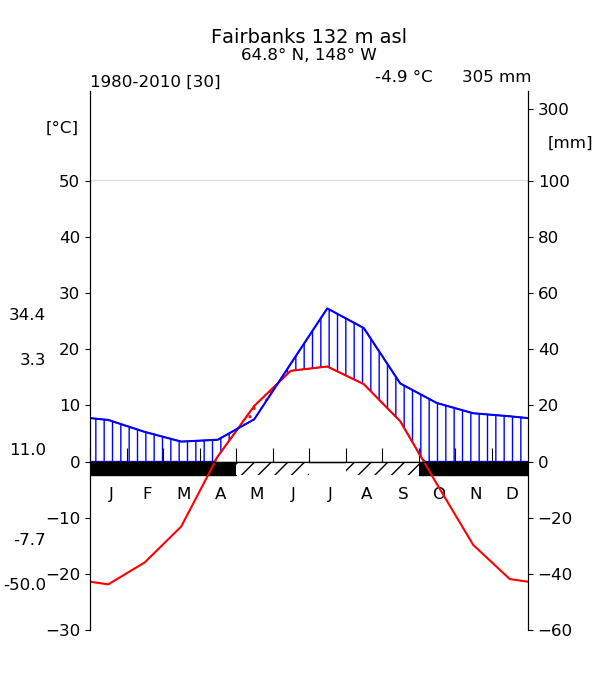
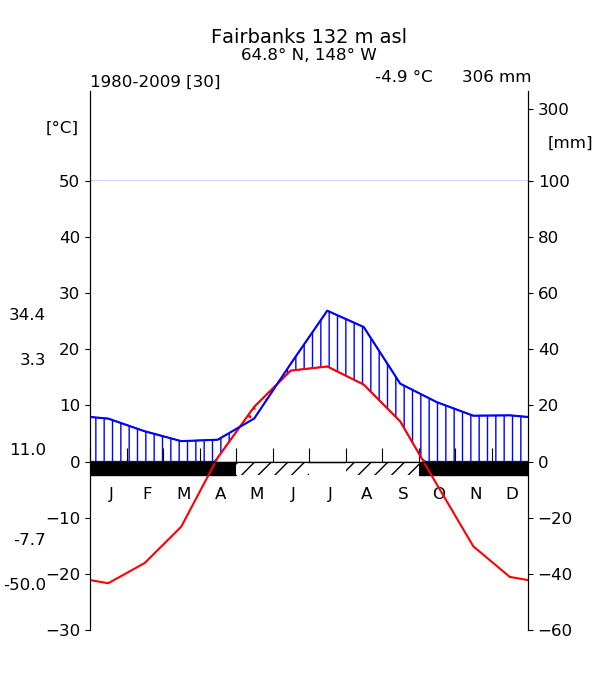
updated figure

diff --git a/climate_graph_WL.py b/climate_graph_WL.py
@@ -35,7 +35,7 @@ def graphWL(name, altitude, df, T_col, P_col, Tmin = None, Tmax = None,
     year = []
     year.append(df.index[0].year)
     year.append(df.index[-1].year)
-    ydelta = year[1] - year[0]
+    ydelta = year[1] - year[0] + 1
     
     df_mean = df.resample("MS").mean()
     df_min = df.resample("MS").min()
